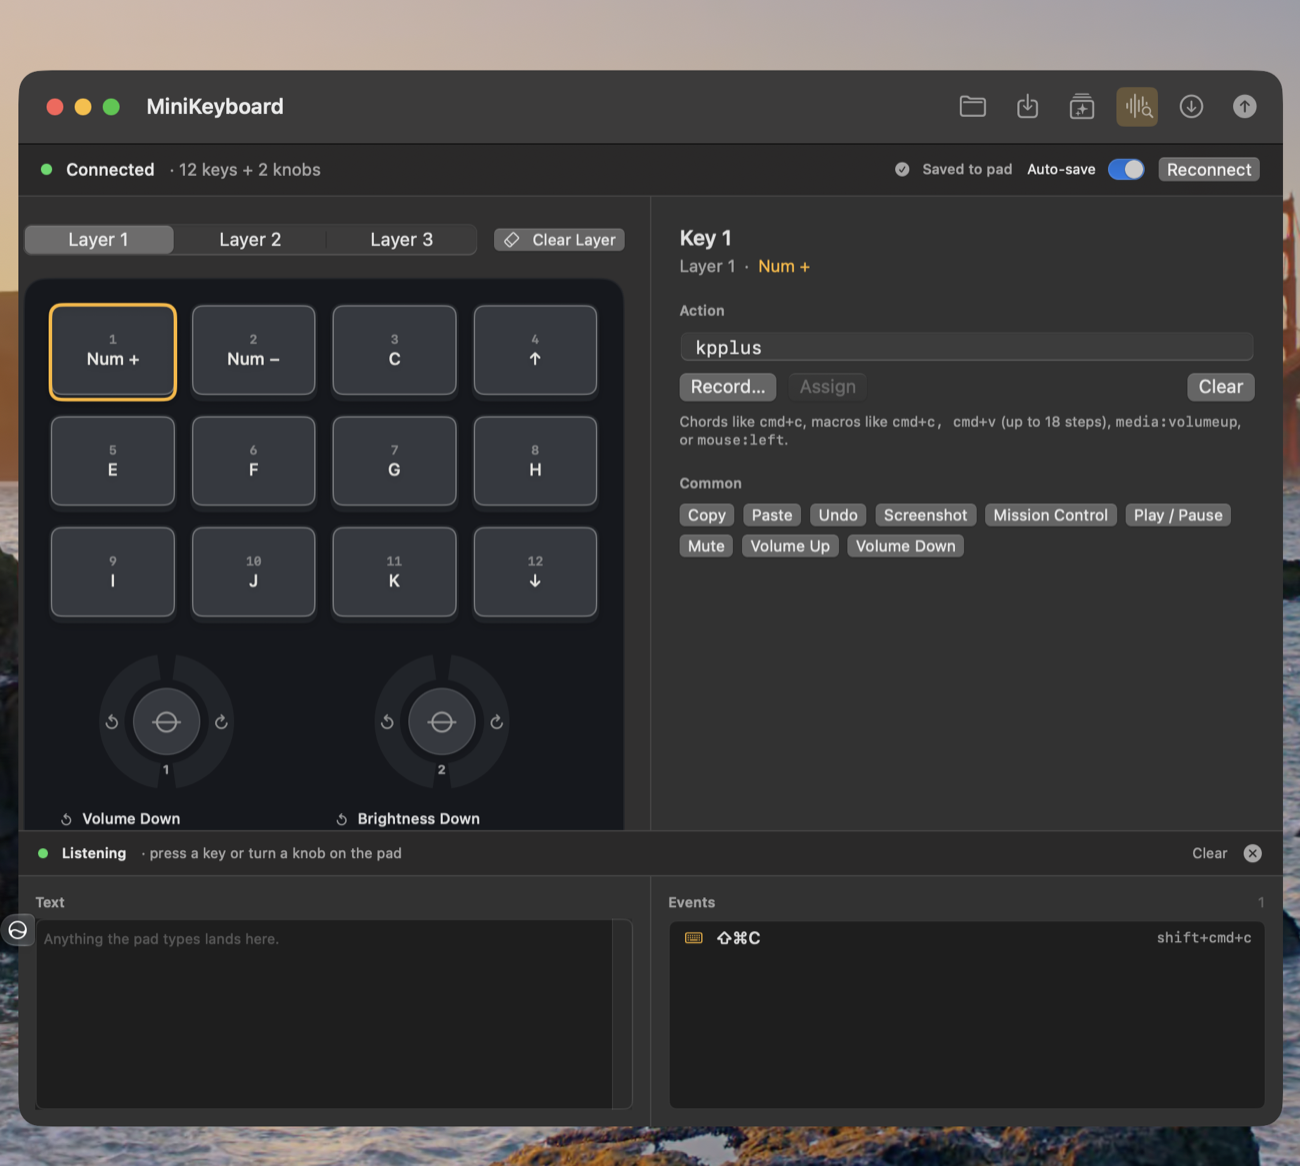
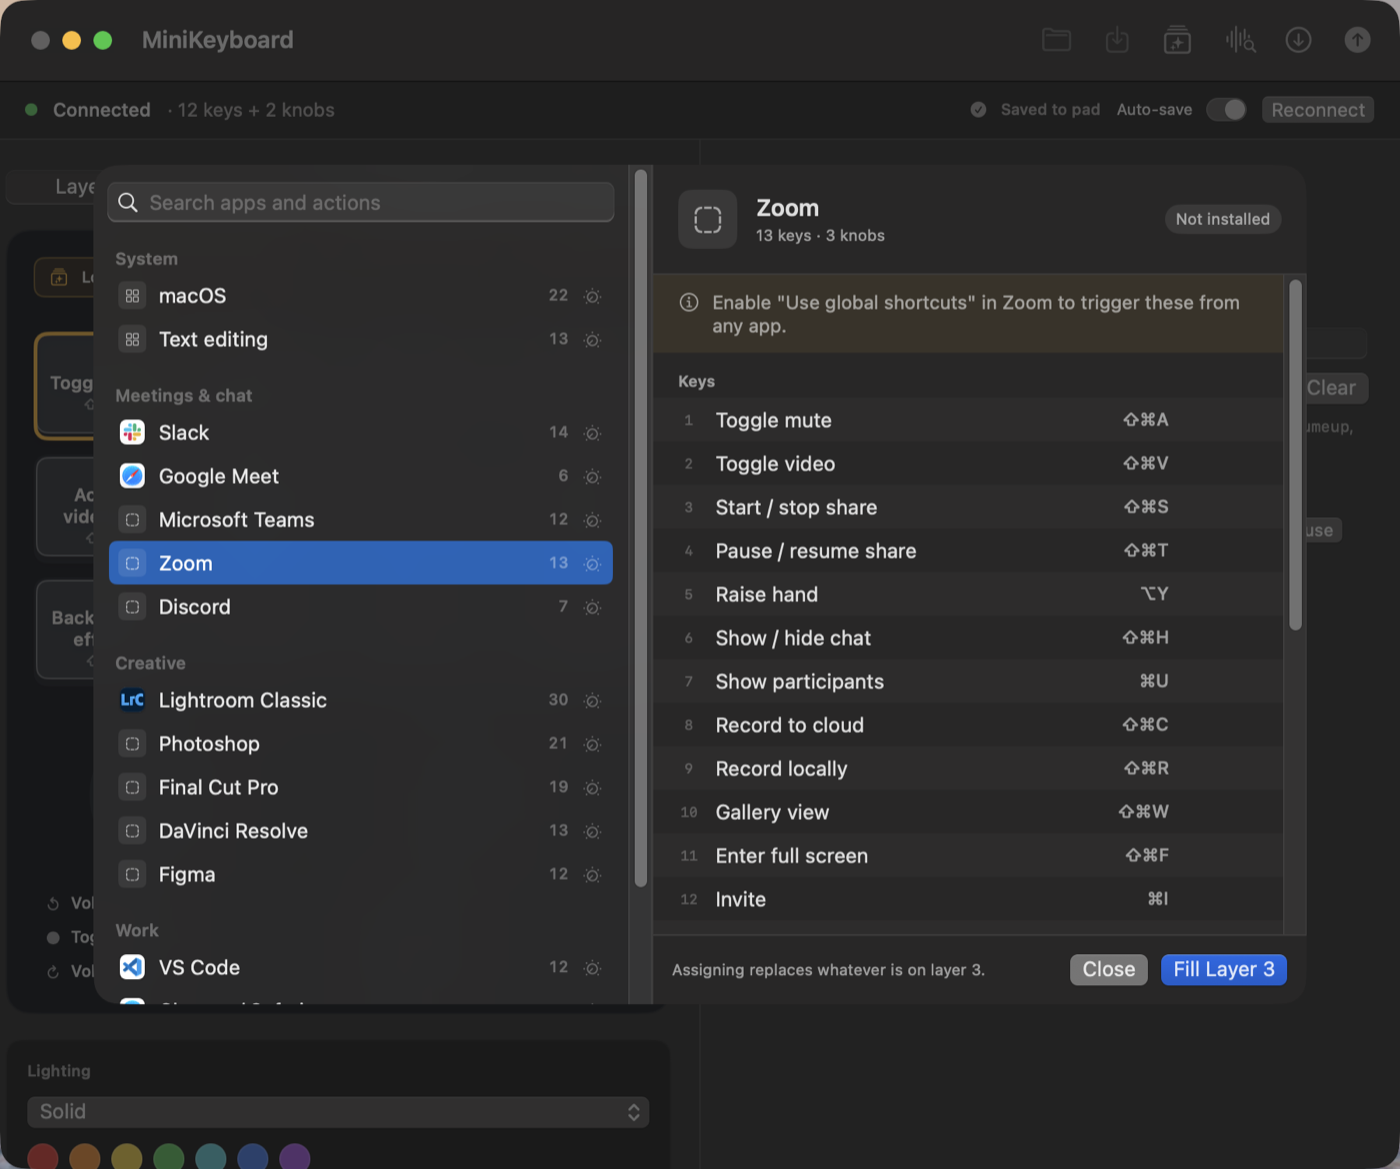
Give each preset a colour
Filling a layer now sets the backlight to match the app's branding -
Slack purple, Excel green, VS Code blue, OBS red - so the pad says which
app a layer is for without reading a keycap. It rides on the per-layer
colour that already worked; a template is simply a layout plus its
colour now.

The preset browser shows each app's colour beside it, and the CLI reports
it when listing or writing a preset.

diff --git a/Sources/MiniKeyboardKit/Presets/PresetLibrary.swift b/Sources/MiniKeyboardKit/Presets/PresetLibrary.swift
@@ -59,11 +59,15 @@ public struct AppPreset: Identifiable, Sendable, Hashable, Codable {
     public let shortcuts: [ShortcutPreset]
     /// What each knob does, in order.
     public let knobs: [KnobPreset]
+    /// Backlight colour to set with the layer, picked to match the app's own
+    /// branding so the pad says which app it is set up for at a glance.
+    public let color: Int
 
     public init(id: String, name: String, category: String,
                 note: String? = nil,
                 bundleIDs: [String] = [],
                 namePrefix: String? = nil,
+                color: Int = 5,
                 knobs: [KnobPreset] = [],
                 shortcuts: [ShortcutPreset]) {
         self.id = id
@@ -72,9 +76,13 @@ public struct AppPreset: Identifiable, Sendable, Hashable, Codable {
         self.note = note
         self.bundleIDs = bundleIDs
         self.namePrefix = namePrefix
+        self.color = LedSetting.clampColor(color)
         self.knobs = knobs
         self.shortcuts = shortcuts
     }
+
+    /// Solid, in the app's colour.
+    public var lighting: LedSetting { LedSetting(mode: 1, color: color) }
 
     /// Every binding this preset defines, keys then knobs.
     public var totalBindings: Int { shortcuts.count + knobs.count * Wire.slotsPerKnob }
@@ -114,7 +122,8 @@ public enum PresetLibrary {
 
     static let macOS = AppPreset(
         id: "macos", name: "macOS", category: "System",
-                knobs: [
+                color: 5,
+        knobs: [
             KnobPreset("Volume",
                        ccw: ShortcutPreset("Volume down", "media:volumedown"),
                        press: ShortcutPreset("Mute", "media:mute"),
@@ -156,7 +165,8 @@ public enum PresetLibrary {
     static let textEditing = AppPreset(
         id: "text", name: "Text editing", category: "System",
         note: "Works in almost any Mac app.",
-                knobs: [
+                color: 5,
+        knobs: [
             KnobPreset("Scroll",
                        ccw: ShortcutPreset("Scroll down", "mouse:wheeldown"),
                        press: ShortcutPreset("Middle click", "mouse:middle"),
@@ -191,7 +201,8 @@ public enum PresetLibrary {
     static let slack = AppPreset(
         id: "slack", name: "Slack", category: "Meetings & chat",
         bundleIDs: ["com.tinyspeck.slackmacgap"],
-                knobs: [
+                color: 7,
+        knobs: [
             KnobPreset("Unread channels",
                        ccw: ShortcutPreset("Previous unread", "shift+alt+up"),
                        press: ShortcutPreset("Mark all read", "shift+esc"),
@@ -225,7 +236,8 @@ public enum PresetLibrary {
     static let teams = AppPreset(
         id: "teams", name: "Microsoft Teams", category: "Meetings & chat",
         bundleIDs: ["com.microsoft.teams2", "com.microsoft.teams"],
-                knobs: [
+                color: 7,
+        knobs: [
             KnobPreset("Call",
                        ccw: ShortcutPreset("Volume down", "media:volumedown"),
                        press: ShortcutPreset("Toggle mute", "shift+cmd+m"),
@@ -258,7 +270,8 @@ public enum PresetLibrary {
         id: "zoom", name: "Zoom", category: "Meetings & chat",
         note: "Enable \"Use global shortcuts\" in Zoom to trigger these from any app.",
         bundleIDs: ["us.zoom.xos"],
-                knobs: [
+                color: 6,
+        knobs: [
             KnobPreset("Call",
                        ccw: ShortcutPreset("Volume down", "media:volumedown"),
                        press: ShortcutPreset("Toggle mute", "shift+cmd+a"),
@@ -292,7 +305,8 @@ public enum PresetLibrary {
         id: "meet", name: "Google Meet", category: "Meetings & chat",
         note: "Browser shortcuts; Meet must be the focused tab.",
         bundleIDs: ["com.google.Chrome", "com.apple.Safari"],
-                knobs: [
+                color: 4,
+        knobs: [
             KnobPreset("Call",
                        ccw: ShortcutPreset("Volume down", "media:volumedown"),
                        press: ShortcutPreset("Toggle mute", "cmd+d"),
@@ -314,7 +328,8 @@ public enum PresetLibrary {
     static let discord = AppPreset(
         id: "discord", name: "Discord", category: "Meetings & chat",
         bundleIDs: ["com.hnc.Discord"],
-                knobs: [
+                color: 6,
+        knobs: [
             KnobPreset("Voice",
                        ccw: ShortcutPreset("Volume down", "media:volumedown"),
                        press: ShortcutPreset("Toggle mute", "shift+cmd+m"),
@@ -340,7 +355,8 @@ public enum PresetLibrary {
         id: "lightroom", name: "Lightroom Classic", category: "Creative",
         note: "Single-letter shortcuts only fire when the photo area has focus.",
         bundleIDs: ["com.adobe.LightroomClassicCC7"], namePrefix: "Adobe Lightroom Classic",
-                knobs: [
+                color: 5,
+        knobs: [
             KnobPreset("Photos",
                        ccw: ShortcutPreset("Previous photo", "left"),
                        press: ShortcutPreset("Flag as pick", "p"),
@@ -390,7 +406,8 @@ public enum PresetLibrary {
     static let photoshop = AppPreset(
         id: "photoshop", name: "Photoshop", category: "Creative",
         bundleIDs: ["com.adobe.Photoshop"], namePrefix: "Adobe Photoshop",
-                knobs: [
+                color: 6,
+        knobs: [
             KnobPreset("Brush size",
                        ccw: ShortcutPreset("Smaller", "leftbracket"),
                        press: ShortcutPreset("Brush tool", "b"),
@@ -431,7 +448,8 @@ public enum PresetLibrary {
     static let finalCut = AppPreset(
         id: "finalcut", name: "Final Cut Pro", category: "Creative",
         bundleIDs: ["com.apple.FinalCut"],
-                knobs: [
+                color: 7,
+        knobs: [
             KnobPreset("Playhead",
                        ccw: ShortcutPreset("Previous frame", "left"),
                        press: ShortcutPreset("Play / pause", "space"),
@@ -470,7 +488,8 @@ public enum PresetLibrary {
     static let davinci = AppPreset(
         id: "resolve", name: "DaVinci Resolve", category: "Creative",
         bundleIDs: ["com.blackmagic-design.DaVinciResolve"], namePrefix: "DaVinci Resolve",
-                knobs: [
+                color: 2,
+        knobs: [
             KnobPreset("Playhead",
                        ccw: ShortcutPreset("Previous frame", "left"),
                        press: ShortcutPreset("Play / pause", "space"),
@@ -499,7 +518,8 @@ public enum PresetLibrary {
     static let figma = AppPreset(
         id: "figma", name: "Figma", category: "Creative",
         bundleIDs: ["com.figma.Desktop"],
-                knobs: [
+                color: 7,
+        knobs: [
             KnobPreset("Zoom",
                        ccw: ShortcutPreset("Zoom out", "cmd+-"),
                        press: ShortcutPreset("Zoom to fit", "shift+1"),
@@ -533,7 +553,8 @@ public enum PresetLibrary {
     static let vscode = AppPreset(
         id: "vscode", name: "VS Code", category: "Work",
         bundleIDs: ["com.microsoft.VSCode", "com.microsoft.VSCodeInsiders", "com.todesktop.230313mzl4w4u92"],
-                knobs: [
+                color: 6,
+        knobs: [
             KnobPreset("Scroll",
                        ccw: ShortcutPreset("Scroll down", "mouse:wheeldown"),
                        press: ShortcutPreset("Middle click", "mouse:middle"),
@@ -565,7 +586,8 @@ public enum PresetLibrary {
     static let browser = AppPreset(
         id: "browser", name: "Chrome / Safari", category: "Work",
         bundleIDs: ["com.google.Chrome", "com.apple.Safari", "company.thebrowser.Browser"],
-                knobs: [
+                color: 3,
+        knobs: [
             KnobPreset("Scroll",
                        ccw: ShortcutPreset("Scroll down", "mouse:wheeldown"),
                        press: ShortcutPreset("Middle click", "mouse:middle"),
@@ -598,7 +620,8 @@ public enum PresetLibrary {
     static let excel = AppPreset(
         id: "excel", name: "Excel", category: "Work",
         bundleIDs: ["com.microsoft.Excel"],
-                knobs: [
+                color: 4,
+        knobs: [
             KnobPreset("Scroll",
                        ccw: ShortcutPreset("Scroll down", "mouse:wheeldown"),
                        press: ShortcutPreset("Middle click", "mouse:middle"),
@@ -629,7 +652,8 @@ public enum PresetLibrary {
         id: "obs", name: "OBS Studio", category: "Work",
         note: "OBS has no default shortcuts. Set these in Settings > Hotkeys first.",
         bundleIDs: ["com.obsproject.obs-studio"],
-                knobs: [
+                color: 1,
+        knobs: [
             KnobPreset("Scenes",
                        ccw: ShortcutPreset("Scene 1", "f1"),
                        press: ShortcutPreset("Start / stop recording", "f8"),
@@ -673,6 +697,8 @@ extension Profile {
             }
         }
 
+        // The pad then shows which app the layer is for without being read.
+        setLed(preset.lighting, layer: layer)
         setSource(LayerSource(layer: layer, appID: preset.id, appName: preset.name),
                   layer: layer)
     }

diff --git a/Tests/MiniKeyboardKitTests/PresetTests.swift b/Tests/MiniKeyboardKitTests/PresetTests.swift
@@ -296,3 +296,34 @@ struct PresetMatcherTests {
         #expect(profile.source(layer: 0)?.inferred == false)
     }
 }
+
+@Suite("Preset lighting")
+struct PresetLightingTests {
+
+    @Test("Every preset names a valid colour and lights solid")
+    func validColours() {
+        for app in PresetLibrary.apps {
+            #expect(LedSetting.colorRange.contains(app.color), "\(app.name)")
+            #expect(app.lighting.mode == 1)          // Solid
+            #expect(app.lighting.usesColor)
+        }
+    }
+
+    @Test("Filling a layer sets its backlight too")
+    func fillSetsLighting() throws {
+        let geo = Geometry(keyCount: 12, knobCount: 2)
+        for preset in [PresetLibrary.slack, PresetLibrary.excel, PresetLibrary.obs] {
+            let profile = try Profile(filling: preset, layer: 1, geometry: geo)
+            #expect(profile.led(layer: 1) == preset.lighting)
+            #expect(profile.led(layer: 0) == nil)   // only the layer being filled
+        }
+    }
+
+    @Test("Colours differ between apps you would run side by side")
+    func neighboursDiffer() {
+        // A meeting app and an editor should not light the pad the same way.
+        #expect(PresetLibrary.zoom.color != PresetLibrary.excel.color)
+        #expect(PresetLibrary.slack.color != PresetLibrary.vscode.color)
+        #expect(PresetLibrary.lightroomClassic.color != PresetLibrary.obs.color)
+    }
+}

diff --git a/Sources/MiniKeyboardApp/PresetBrowser.swift b/Sources/MiniKeyboardApp/PresetBrowser.swift
@@ -92,6 +92,12 @@ struct PresetBrowser: View {
                     .font(.caption).foregroundStyle(.secondary)
             }
             Spacer()
+            HStack(spacing: 5) {
+                Circle().fill(LightingView.swatch(app.color)).frame(width: 9, height: 9)
+                Text(LedSetting.colorNames[app.color] ?? "")
+                    .font(.caption).foregroundStyle(.secondary)
+            }
+            .help("Filling this layer also sets the backlight")
             if !app.isUniversal && AppAvailability.location(of: app) == nil {
                 Text("Not installed")
                     .font(.caption)
@@ -165,6 +171,10 @@ private struct AppRow: View {
             AppIcon(preset: preset, size: 18)
             Text(preset.name).lineLimit(1)
             Spacer(minLength: 4)
+            Circle()
+                .fill(LightingView.swatch(preset.color))
+                .frame(width: 7, height: 7)
+                .help("Sets the backlight to \(LedSetting.colorNames[preset.color] ?? "")")
             Text("\(preset.shortcuts.count)")
                 .font(.caption2.monospacedDigit())
                 .foregroundStyle(.tertiary)

diff --git a/Sources/MiniKeyboardApp/LightingView.swift b/Sources/MiniKeyboardApp/LightingView.swift
@@ -12,7 +12,9 @@ struct LightingView: View {
 
     private var setting: LedSetting? { model.profile.led(layer: model.selectedLayer) }
 
-    private static let swatches: [Int: Color] = [
+    static func swatch(_ color: Int) -> Color { swatches[color] ?? .gray }
+
+    static let swatches: [Int: Color] = [
         1: Color(red: 0.93, green: 0.20, blue: 0.20),   // Red
         2: Color(red: 0.98, green: 0.55, blue: 0.14),   // Orange
         3: Color(red: 0.97, green: 0.83, blue: 0.20),   // Yellow
@@ -55,7 +57,7 @@ struct LightingView: View {
                     ForEach(LedSetting.colorRange, id: \.self) { c in
                         let isSelected = setting?.color == c
                         Circle()
-                            .fill(Self.swatches[c] ?? .gray)
+                            .fill(Self.swatch(c))
                             .frame(width: 20, height: 20)
                             .overlay {
                                 Circle().strokeBorder(

diff --git a/Sources/minikeyboard/main.swift b/Sources/minikeyboard/main.swift
@@ -209,6 +209,7 @@ do {
                     row(knob.clockwise,        prefix: "  \u{21BB} ")
                 }
             }
+            print("\nBacklight  \(app.lighting.describe)")
             print("\n  \(app.shortcuts.count) keys, \(app.knobs.count) knobs. "
                   + "Write them with: minikeyboard preset \(app.id)")
         } else {
@@ -250,7 +251,7 @@ do {
         let profile = try Profile(filling: app, layer: layer, geometry: geo)
         try pad.apply(profile)
         print("Wrote \(profile.assignments.count) \(app.name) shortcuts "
-              + "to layer \(layer + 1).")
+              + "to layer \(layer + 1), backlight \(app.lighting.describe).")
         if let note = app.note { print("Note: \(note)") }
         if app.shortcuts.count > geo.keyCount {
             print("The pad has \(geo.keyCount) keys, so "

diff --git a/Sources/MiniKeyboardApp/AppModel.swift b/Sources/MiniKeyboardApp/AppModel.swift
@@ -265,6 +265,8 @@ final class AppModel {
         profile.setSource(Profile.LayerSource(layer: selectedLayer,
                                               appID: preset.id, appName: preset.name),
                           layer: selectedLayer)
+        // Lighting is written as it changes, so set it through the same path.
+        applyLed(preset.lighting)
         scheduleAutoSave()
         let placed = min(slots.count, preset.shortcuts.count)
         let dropped = preset.shortcuts.count - placed

diff --git a/README.md b/README.md
@@ -292,6 +292,13 @@ keys is how you end up with "Search" on a knob turn.
 A test asserts every rotation is a repeatable action, so a one-shot command
 cannot end up on a turn.
 
+### Colour
+
+Each preset also carries a backlight colour, picked to match the app's own
+branding — Slack purple, Excel green, VS Code blue, OBS red. Filling a layer sets
+it, so the pad says which app the layer is for without you reading a single
+keycap.
+
 In the app, **Presets** opens a browser. Apps installed on this Mac are listed
 first with their own icons; the rest stay available, since you might be setting
 up a pad for another machine. Detection asks LaunchServices, with a name-match
